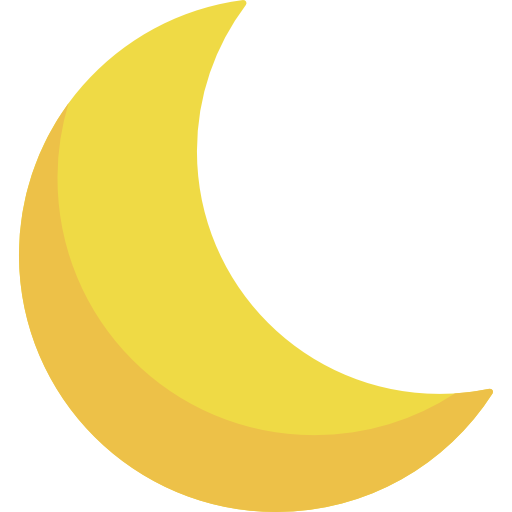
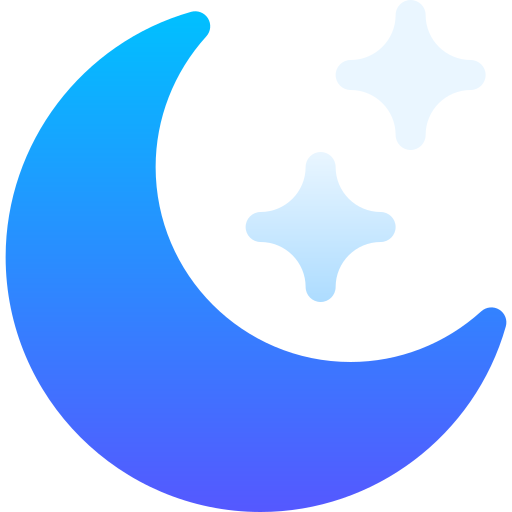
Fixed styles

diff --git a/index.html b/index.html
@@ -44,7 +44,7 @@
                     <p>Cairo</p>
                 </button>
                 <button>
-                    <img src="imges/day/day.png" alt="day/night">
+                    <img src="imges/day/night.png" alt="day/night">
                     <p>New York</p>
                 </button>
                 <button>
@@ -64,13 +64,22 @@
                     <p>1/8/2024</p>
                 </div> 
                 <div class="cityInfo-current">
-                    
+                    <p>24 C</p>
+                    <div>
+                        <img src="imges/status/cloudy.png">
+                        <p>ParltyCloudy</p>
+                    </div>
                 </div>
                 <div class="cityInfo-wind">
-
+                    <div>
+                        <img src="" alt="arrow">
+                        <p>west east</p>
+                    </div>
+                    <p>5 Km/h</p>
                 </div>
                 <div class="cityInfo-misc">
-
+                    <p>Hu: 39</p>
+                    <p>UV: 7.0</p>
                 </div>
                 <div class="cityInfo-forecast">
 

diff --git a/style.css b/style.css
@@ -80,13 +80,13 @@ nav > a > img{
     justify-content: space-between;
     background-color: var(--cardBackgroundColor);
     border-radius: 16px;
-    padding: 10px;
+    padding: 5px;
     width: 100%;
     max-width: 425px;
-    height: auto;
+    height: 85px;
 }
 .cityButton > button > img{
-    width: 75px;
+    width: 65px;
     height: auto;
 }
 .cityButton > button > p{
